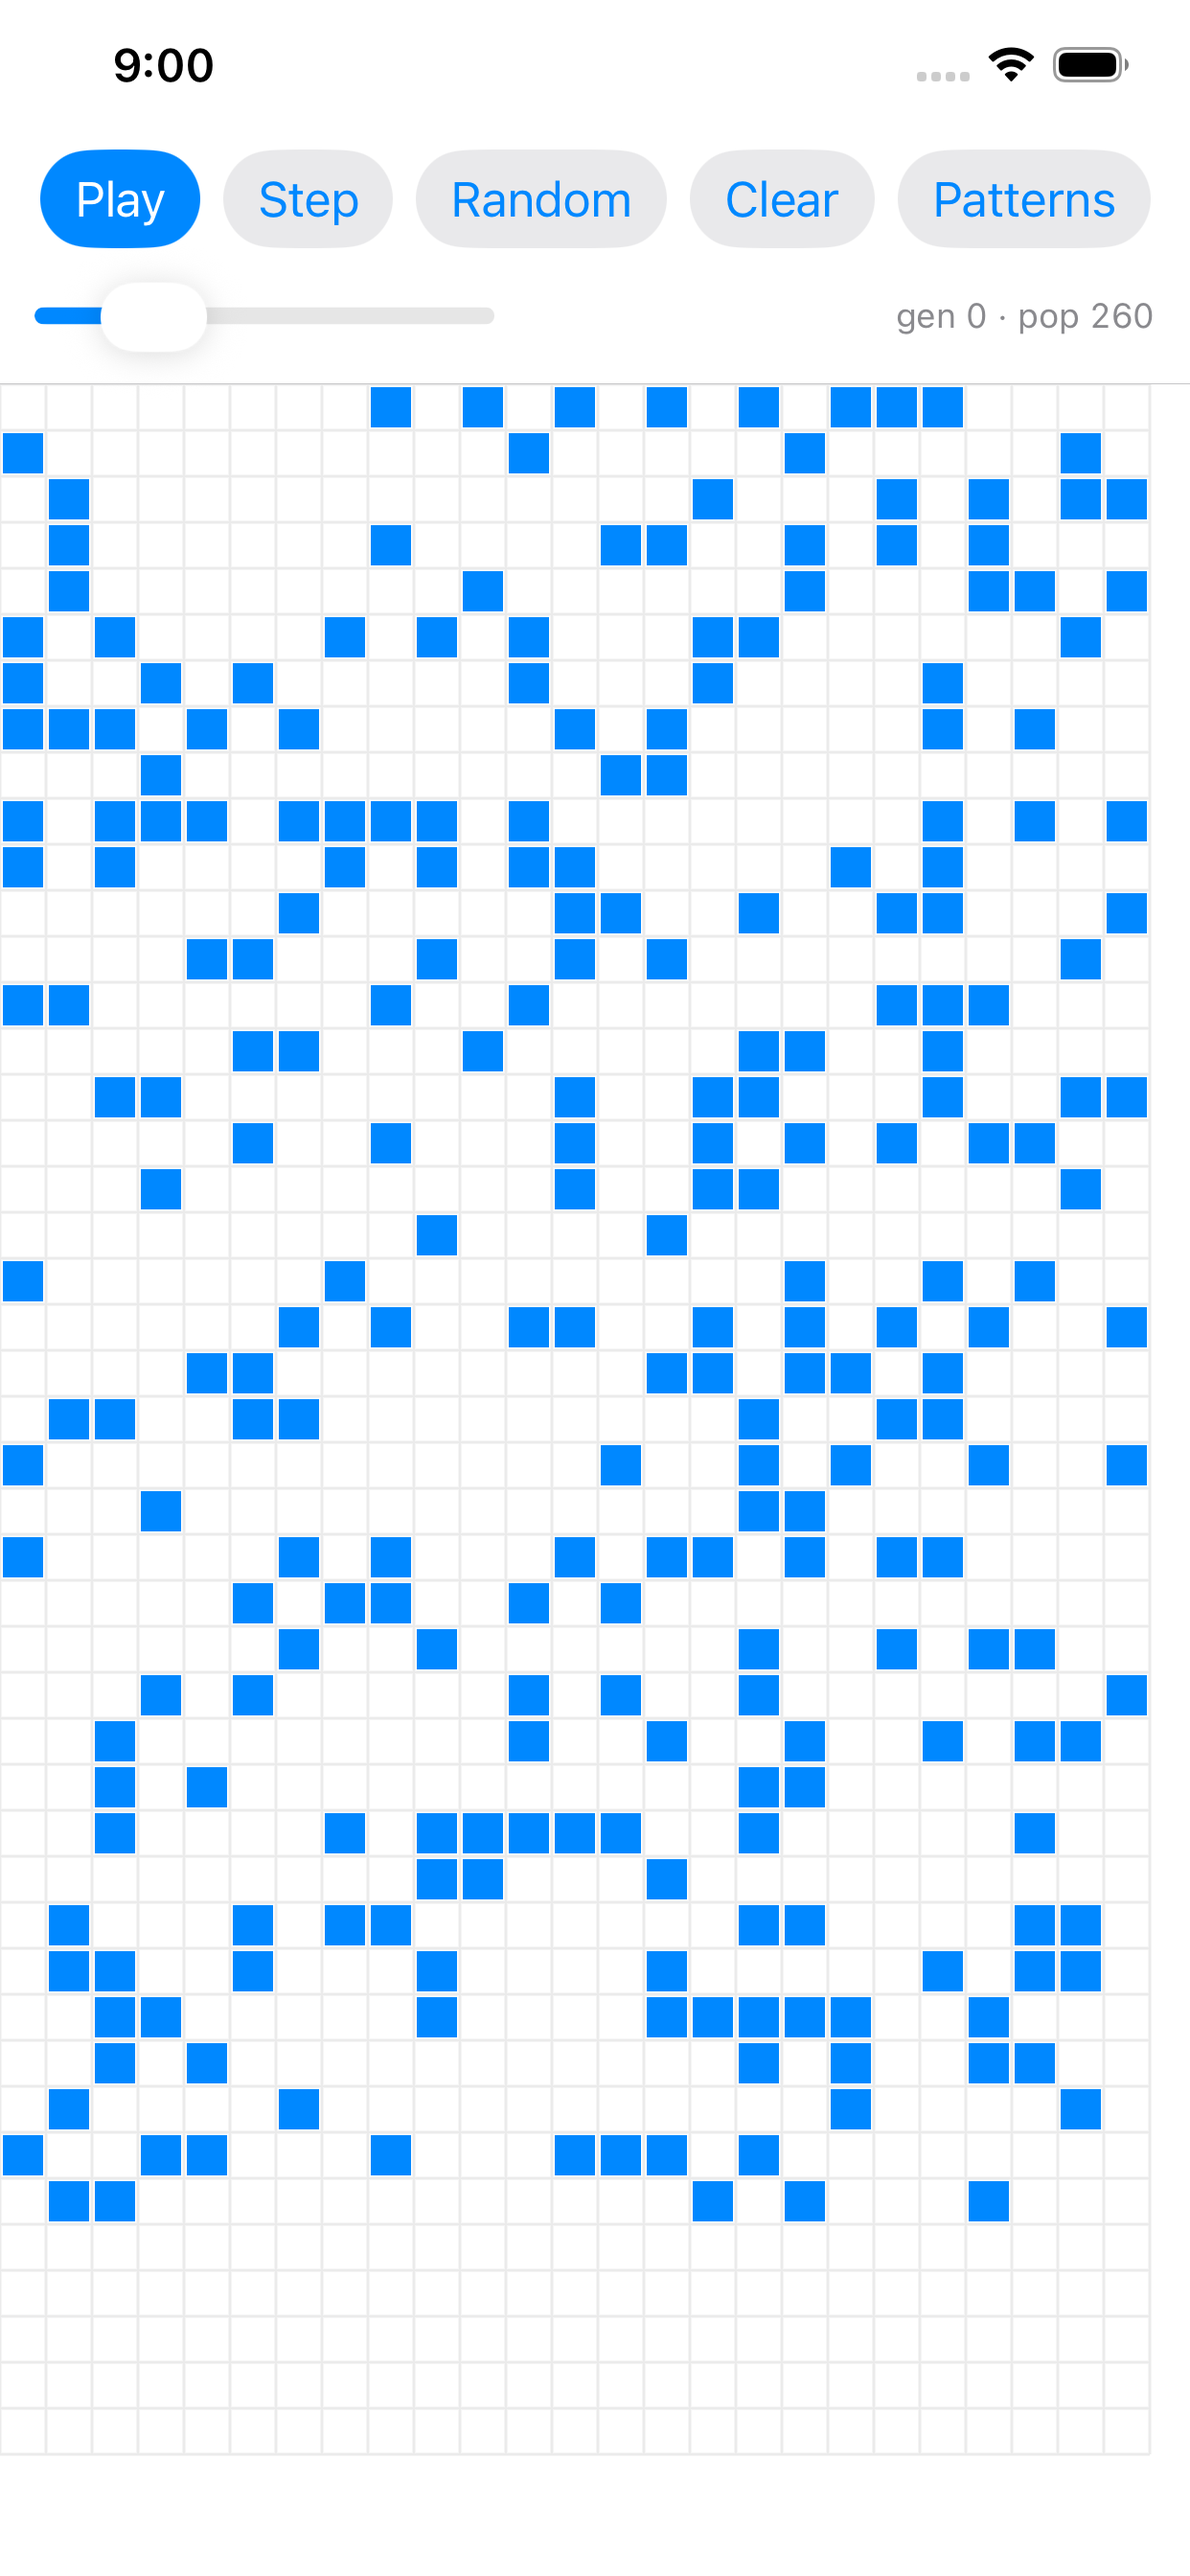
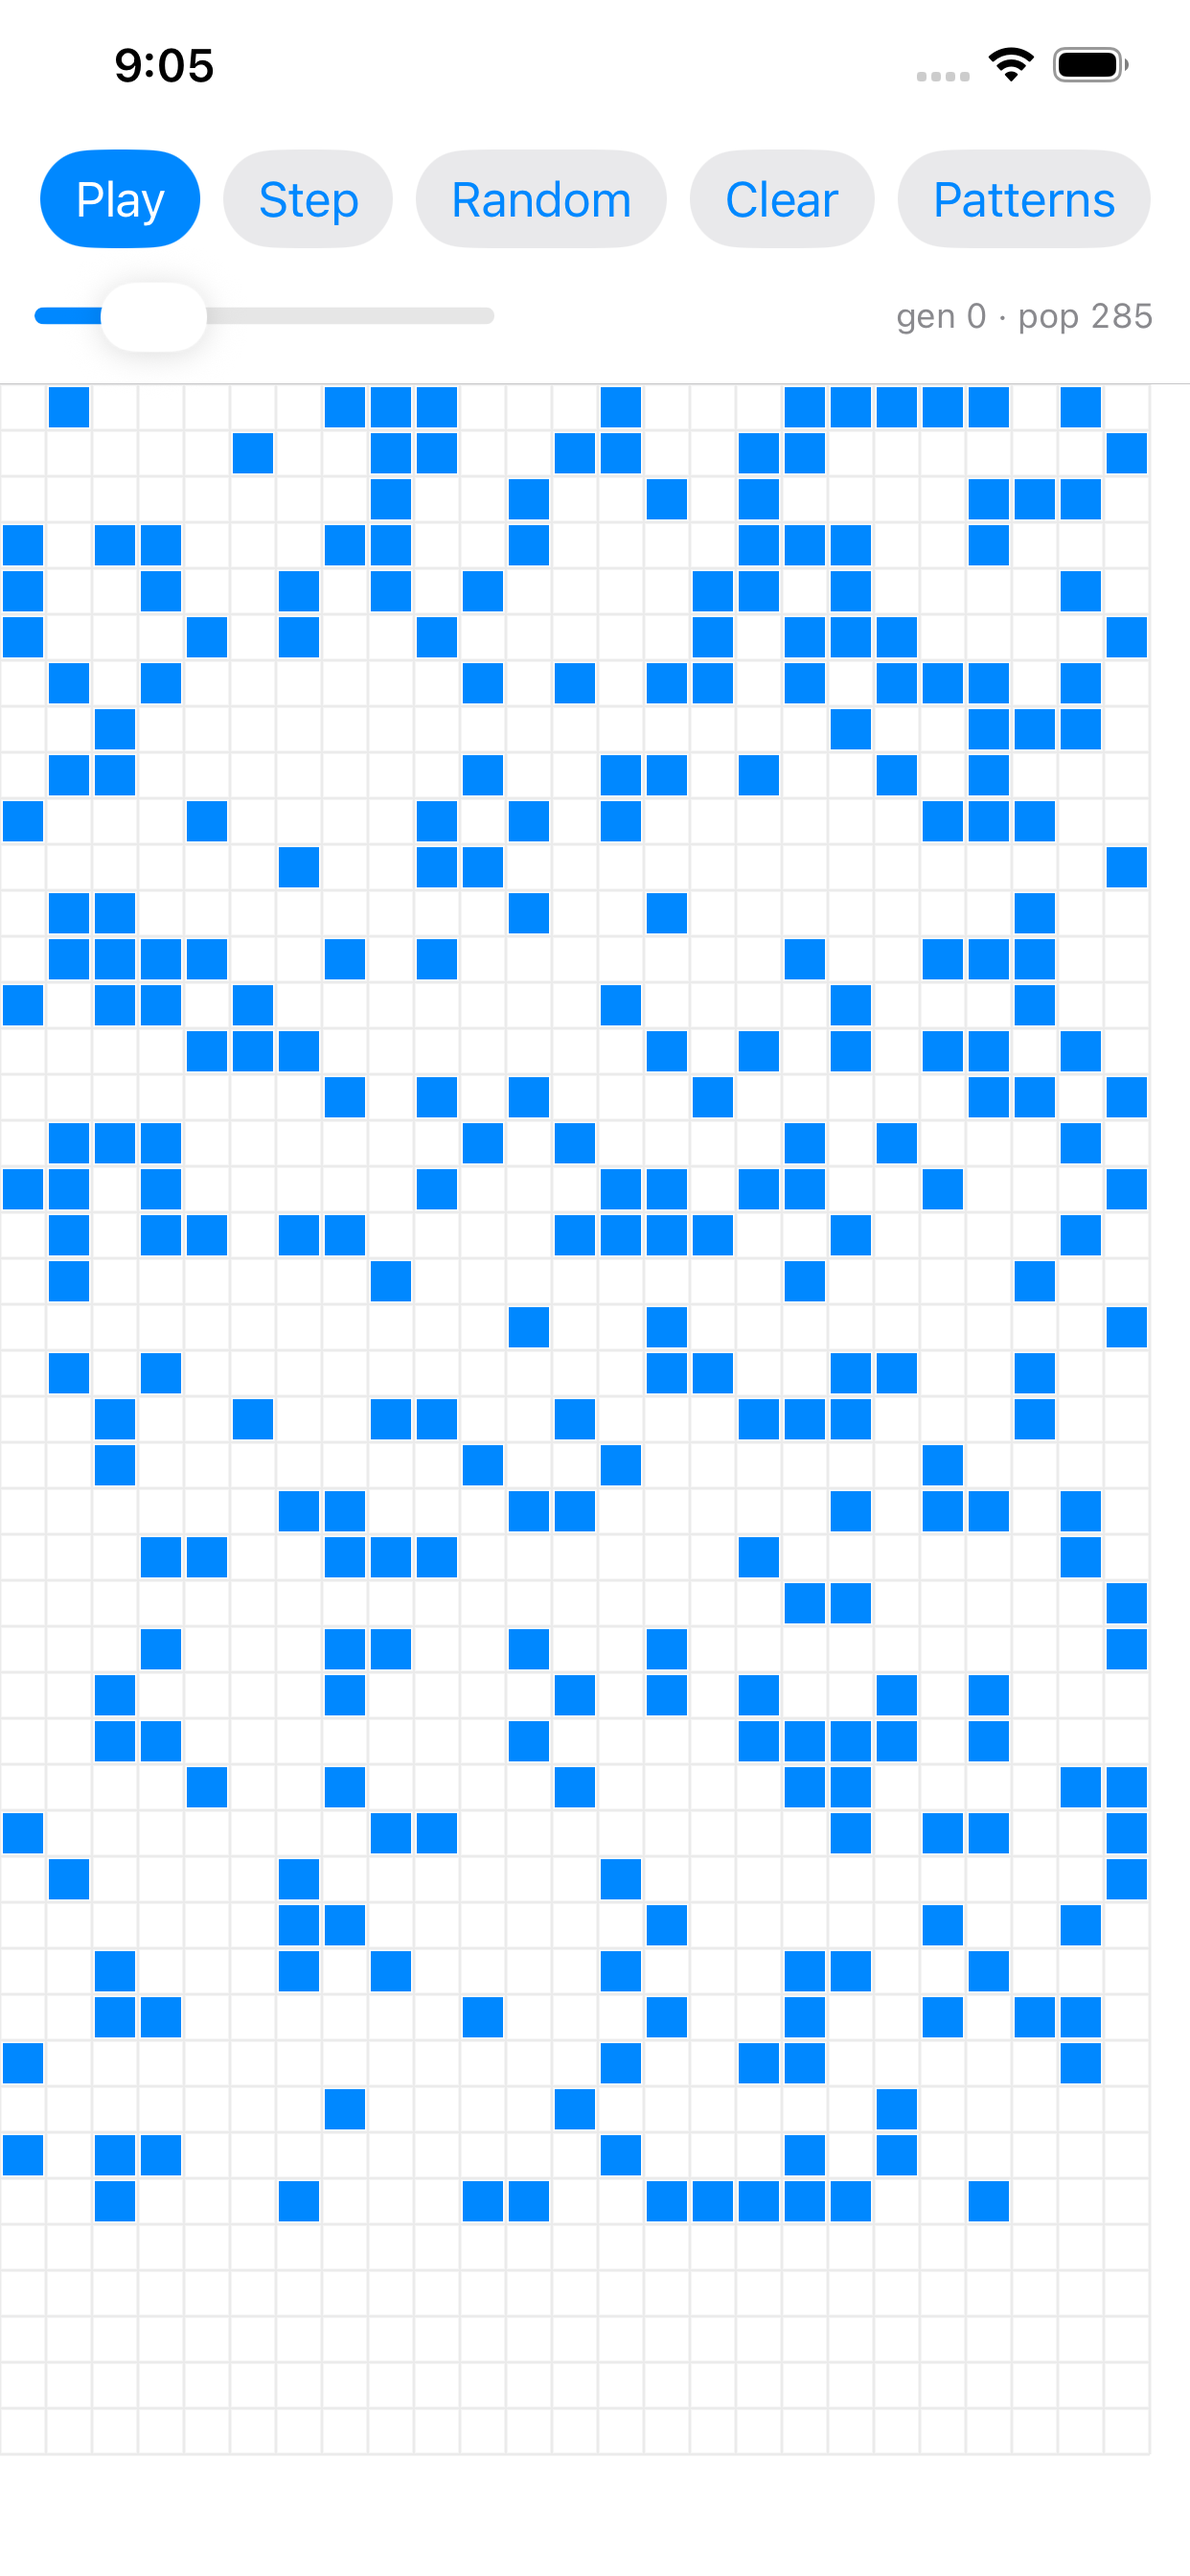
Ship prep for Toroid: record, builds, metadata, screenshots
Claude-Session: https://claude.ai/code/session_01YJPA9mvvC41ZvQ9XSxP2DC

diff --git a/ios/Conway/ContentView.swift b/ios/Conway/ContentView.swift
@@ -33,6 +33,10 @@ final class Board: ObservableObject {
         guard let p = pendingPattern else { return }
         pendingPattern = nil
         stamp(p)
+        // `-generations 300` runs the board forward before the first frame, so a
+        // screenshot can show a gun mid-stream rather than a near-empty grid.
+        let n = UserDefaults.standard.integer(forKey: "generations")
+        for _ in 0..<min(max(0, n), 5000) { life.step() }
     }
 
     deinit { timer?.invalidate() }

diff --git a/roadmap.md b/roadmap.md
@@ -1,12 +1,27 @@
 # Conway — roadmap
 
-## Done
-- Web landing page with a live Game of Life board behind the hero, plus `play.html`
-- Shared SwiftUI app: iOS + macOS from one engine and one view
-- Rule checks for both engines (JS + Swift)
+App Store listing name is **Toroid** (Conway was taken). ASC app id `6806324937`,
+bundle `com.heyitsmejosh.conway`, profiles "Toroid AppStore" / "Toroid Mac AppStore".
 
-## Not done
-- Not deployed. Needs a Cloudflare Pages project + `conway.heyitsmejosh.com` CNAME.
-- No App Store Connect record, no screenshots, no metadata.
-- Bundle ID `com.heyitsmejosh.conway` is not registered yet.
-- No save/load of boards, no zoom or pan — the board is one screen of cells.
+## Done
+- Web live: conway.heyitsmejosh.com (Cloudflare Pages project `conway`), `scripts/deploy.sh`
+- iOS + macOS apps, shared engine and view; 33 JS + 31 Swift checks
+- Bundle ID registered, ASC record created, both builds uploaded and VALID (202608280855)
+- iOS build attached to version 1.0; metadata, category (Games/Puzzle+Simulation),
+  content rights, copyright, age rating all set
+- Screenshots captured: `screenshots/` — 4 iPhone 6.5", 4 iPad 13"
+
+## Open
+- [ ] Upload screenshots — `asc screenshots upload` needs locale subdirectories:
+      stage as `<dir>/en-US/*.png`, then `--device-type IPHONE_65` / `IPAD_PRO_3GEN_129`
+      with `--app 6806324937 --version-id 4aba64d8-d4c3-46b0-8339-e10fb65f5322`
+- [ ] App Store review details (contact name/email/phone) — `asc review details-create`
+- [ ] App availability / territories — `asc web`, first-time bootstrap
+- [ ] App Privacy: publish DATA_NOT_COLLECTED *before* the version publish or it 409s
+- [ ] macOS platform on the same record — the Mac pkg is uploaded but the record is
+      iOS-only (`--platform UNIVERSAL` 409s at creation). Add the platform, then attach
+      build `db4fb66d-b26f-49ae-98fe-1b66ddab7b88`. Do NOT run `asc web apps create
+      --platform MAC_OS` — that makes a second record.
+- [ ] `asc validate --app 6806324937 --version 1.0 --platform IOS` until clean
+- [ ] Submit — deliberately held: the 4.3(a) wave is active with three appeals filed
+      2026-08-28, and a seventh thin record entering review now risks those appeals.
